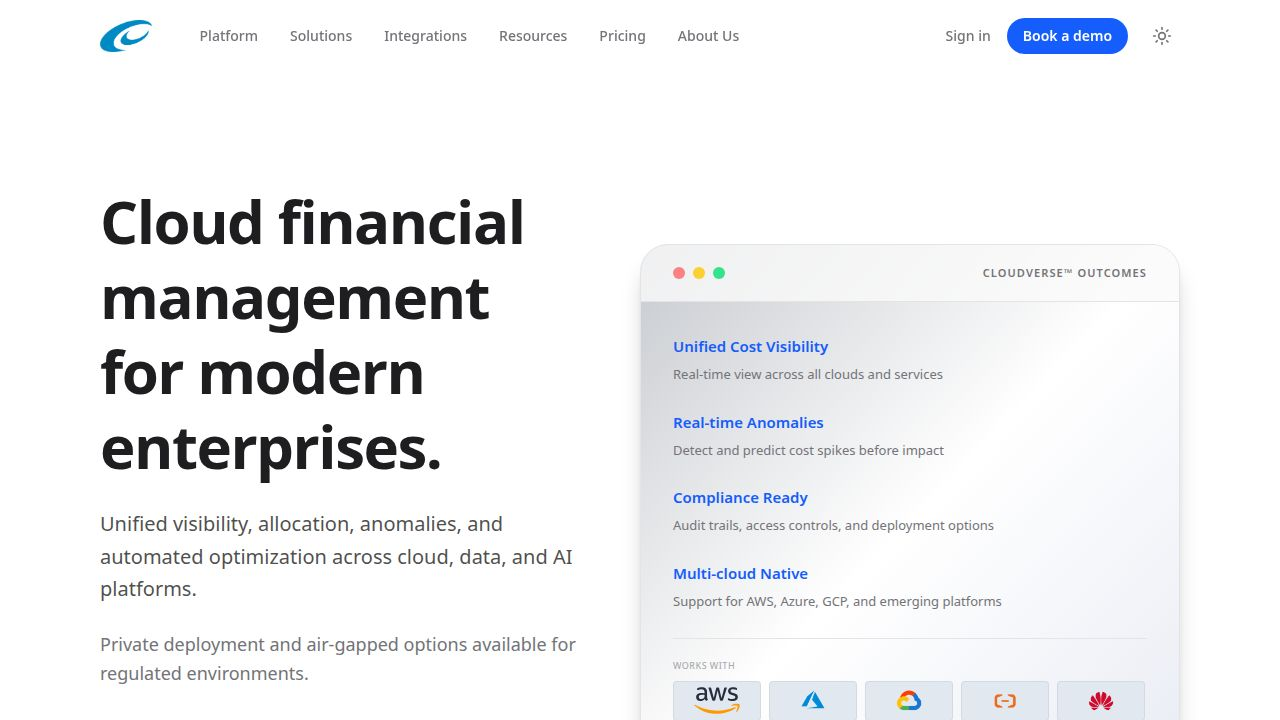
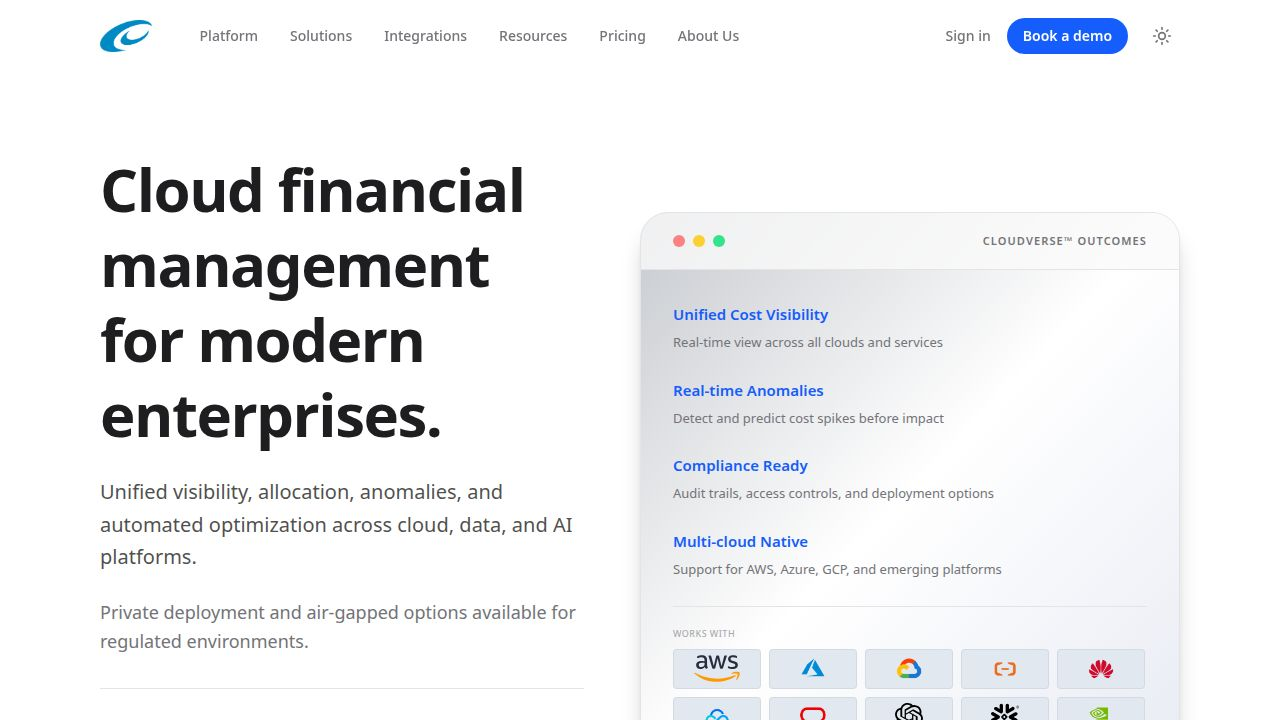
Reduce top padding across all website pages
Adjusted top padding values in various section components (e.g., MotionHero, AboutUs, BookDemo) from `pt-20 sm:pt-24 lg:pt-28` to `pt-12 sm:pt-16 lg:pt-20` to address user feedback regarding excessive spacing.

Replit-Commit-Author: Agent
Replit-Commit-Session-Id: cc55be88-6012-4923-a548-e605ac5f138f
Replit-Commit-Checkpoint-Type: full_checkpoint
Replit-Commit-Event-Id: 58de2598-8d11-42e1-a5c0-2455d10d0b13
Replit-Commit-Screenshot-Url: https://storage.googleapis.com/screenshot-production-us-central1/d8dacd2f-b214-4560-9121-caa3bb9575fb/cc55be88-6012-4923-a548-e605ac5f138f/AvE1jOp
Replit-Helium-Checkpoint-Created: true

diff --git a/client/src/pages/Home.tsx b/client/src/pages/Home.tsx
@@ -69,7 +69,7 @@ export default function Home() {
   return (
     <BaseLayout>
       {/* Hero Section */}
-      <section className="relative pt-20 sm:pt-24 lg:pt-28 pb-12 sm:pb-14 lg:pb-16 overflow-hidden">
+      <section className="relative pt-12 sm:pt-16 lg:pt-20 pb-12 sm:pb-14 lg:pb-16 overflow-hidden">
         <MotionHeroBackground />
         <div className="max-w-[1240px] mx-auto px-5 sm:px-6 lg:px-20 relative z-10">
           <div className="grid grid-cols-1 lg:grid-cols-[1fr_auto] gap-10 lg:gap-14 items-center">

diff --git a/client/src/pages/Solutions.tsx b/client/src/pages/Solutions.tsx
@@ -119,7 +119,7 @@ export default function Solutions() {
   return (
     <BaseLayout>
       {/* Hero */}
-      <section className="pt-20 sm:pt-24 lg:pt-28 pb-12 sm:pb-14 lg:pb-16 border-b border-cv-line">
+      <section className="pt-12 sm:pt-16 lg:pt-20 pb-12 sm:pb-14 lg:pb-16 border-b border-cv-line">
         <div className="max-w-[1240px] mx-auto px-5 sm:px-6 lg:px-20">
           <div className="max-w-3xl">
             <p className="text-xs sm:text-sm font-semibold uppercase tracking-widest text-cv-muted mb-4">

diff --git a/client/src/pages/Partners.tsx b/client/src/pages/Partners.tsx
@@ -159,7 +159,7 @@ export default function Partners() {
   return (
     <BaseLayout>
       {/* Hero */}
-      <section className="pt-20 sm:pt-24 lg:pt-28 pb-14 sm:pb-16 lg:pb-20 border-b border-cv-line">
+      <section className="pt-12 sm:pt-16 lg:pt-20 pb-14 sm:pb-16 lg:pb-20 border-b border-cv-line">
         <div className="max-w-[1400px] mx-auto px-5 sm:px-6 lg:px-20">
           <div className="max-w-3xl">
             <p className="text-xs sm:text-sm font-semibold uppercase tracking-widest text-cv-muted mb-4">

diff --git a/client/src/pages/ConnectWithUs.tsx b/client/src/pages/ConnectWithUs.tsx
@@ -110,7 +110,7 @@ export default function ConnectWithUs() {
 
   return (
     <BaseLayout>
-      <section className="pt-20 sm:pt-24 lg:pt-28 pb-16 sm:pb-20 lg:pb-24 relative overflow-hidden">
+      <section className="pt-12 sm:pt-16 lg:pt-20 pb-16 sm:pb-20 lg:pb-24 relative overflow-hidden">
         <div className="absolute inset-0 bg-gradient-to-br from-blue-500/5 via-transparent to-purple-500/5 pointer-events-none" />
         
         <div className="max-w-[1240px] mx-auto px-5 sm:px-6 lg:px-20 relative">

diff --git a/client/src/components/MotionHero.tsx b/client/src/components/MotionHero.tsx
@@ -6,7 +6,7 @@ interface MotionHeroProps {
 
 export function MotionHero({ children }: MotionHeroProps) {
   return (
-    <section className="pt-20 sm:pt-24 lg:pt-28 pb-12 sm:pb-14 lg:pb-16 relative overflow-hidden">
+    <section className="pt-12 sm:pt-16 lg:pt-20 pb-12 sm:pb-14 lg:pb-16 relative overflow-hidden">
       <div className="hero-motion-bg absolute inset-0 -z-10" aria-hidden="true" />
       <div className="max-w-[1240px] mx-auto px-5 sm:px-6 lg:px-20 relative z-10">
         {children}

diff --git a/client/src/pages/Resources.tsx b/client/src/pages/Resources.tsx
@@ -14,7 +14,7 @@ export default function Resources() {
   return (
     <BaseLayout>
       {/* Hero */}
-      <section className="pt-20 sm:pt-24 lg:pt-28 pb-12 sm:pb-14 lg:pb-16">
+      <section className="pt-12 sm:pt-16 lg:pt-20 pb-12 sm:pb-14 lg:pb-16">
         <div className="cv-container-full space-y-4 sm:space-y-6">
           <div className="max-w-3xl">
             <span className="text-xs uppercase tracking-widest text-cv-muted mb-4 inline-block">CloudVerse™ Resources</span>

diff --git a/client/src/pages/Compare.tsx b/client/src/pages/Compare.tsx
@@ -74,7 +74,7 @@ export default function Compare() {
   return (
     <BaseLayout>
       {/* Hero Section */}
-      <section className="pt-20 sm:pt-24 lg:pt-28 pb-12 sm:pb-14 lg:pb-16">
+      <section className="pt-12 sm:pt-16 lg:pt-20 pb-12 sm:pb-14 lg:pb-16">
         <div className="max-w-[1240px] mx-auto px-5 sm:px-6 lg:px-20">
           <div className="max-w-3xl">
             <h1 className="text-4xl sm:text-5xl lg:text-6xl font-bold tracking-tight text-cv-ink mb-6">

diff --git a/client/src/pages/AboutUs.tsx b/client/src/pages/AboutUs.tsx
@@ -68,7 +68,7 @@ export default function AboutUs() {
 
   return (
     <BaseLayout>
-      <section className="pt-20 sm:pt-24 lg:pt-28 pb-16 sm:pb-20 lg:pb-24">
+      <section className="pt-12 sm:pt-16 lg:pt-20 pb-16 sm:pb-20 lg:pb-24">
         <div className="max-w-[1240px] mx-auto px-5 sm:px-6 lg:px-20">
           <div className="text-center mb-16 lg:mb-20">
             <span className="inline-block text-xs uppercase tracking-widest text-blue-500 font-semibold mb-4">

diff --git a/client/src/pages/BookDemo.tsx b/client/src/pages/BookDemo.tsx
@@ -9,7 +9,7 @@ export default function BookDemo() {
 
   return (
     <BaseLayout>
-      <section className="pt-20 sm:pt-24 lg:pt-28 pb-12 sm:pb-16 lg:pb-20">
+      <section className="pt-12 sm:pt-16 lg:pt-20 pb-12 sm:pb-16 lg:pb-20">
         <div className="max-w-[1240px] mx-auto px-5 sm:px-6 lg:px-20">
           <div className="max-w-3xl mx-auto text-center">
             <h1 className="text-4xl sm:text-5xl lg:text-6xl font-bold tracking-tight text-cv-ink mb-6">

diff --git a/client/src/pages/Integrations.tsx b/client/src/pages/Integrations.tsx
@@ -36,7 +36,7 @@ export default function Integrations() {
   return (
     <BaseLayout>
       {/* Hero */}
-      <section className="pt-20 sm:pt-24 lg:pt-28 pb-12 sm:pb-14 lg:pb-16">
+      <section className="pt-12 sm:pt-16 lg:pt-20 pb-12 sm:pb-14 lg:pb-16">
         <div className="cv-container-full space-y-6">
           <div className="max-w-[900px]">
             <span className="cv-cap font-semibold tracking-widest text-cv-muted uppercase mb-4 inline-block">

diff --git a/client/src/pages/Tour.tsx b/client/src/pages/Tour.tsx
@@ -8,7 +8,7 @@ export default function Tour() {
 
   return (
     <BaseLayout>
-      <section className="pt-20 sm:pt-24 lg:pt-28 pb-12 sm:pb-16 lg:pb-20">
+      <section className="pt-12 sm:pt-16 lg:pt-20 pb-12 sm:pb-16 lg:pb-20">
         <div className="max-w-[1240px] mx-auto px-5 sm:px-6 lg:px-20">
           <div className="max-w-3xl mx-auto text-center">
             <h1 className="text-4xl sm:text-5xl lg:text-6xl font-bold tracking-tight text-cv-ink mb-6">

diff --git a/client/src/pages/Pricing.tsx b/client/src/pages/Pricing.tsx
@@ -59,7 +59,7 @@ export default function Pricing() {
   return (
     <BaseLayout>
       {/* Hero */}
-      <section className="pt-20 sm:pt-24 lg:pt-28 pb-12 sm:pb-14 lg:pb-16">
+      <section className="pt-12 sm:pt-16 lg:pt-20 pb-12 sm:pb-14 lg:pb-16">
         <div className="cv-container text-center space-y-4 sm:space-y-6 max-w-[720px] mx-auto">
           <span className="cv-cap font-semibold tracking-widest text-cv-muted uppercase">
             Pricing
